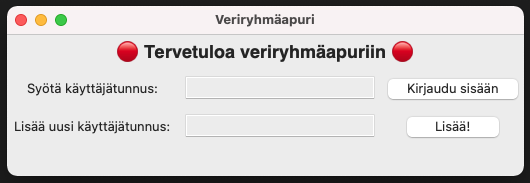
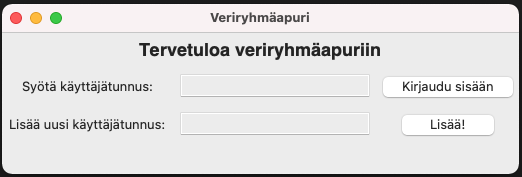
korjaukset

diff --git a/src/ui/login_view.py b/src/ui/login_view.py
@@ -1,5 +1,4 @@
 from tkinter import ttk, StringVar
-from emoji import emojize
 
 
 class LoginView:
@@ -35,8 +34,7 @@ class LoginView:
         self.__message.set("")
 
         welcome = ttk.Label(master=self.__window,
-                            text=(
-                                emojize(":red_circle: Tervetuloa veriryhmäapuriin :red_circle:")),
+                            text="Tervetuloa veriryhmäapuriin",
                             font="Helvetica 18 bold")
 
         give_username = ttk.Label(

diff --git a/src/ui/sample_view.py b/src/ui/sample_view.py
@@ -1,5 +1,4 @@
 from tkinter import ttk, StringVar
-from emoji import emojize
 from services.sample_handler import SampleHandler
 
 
@@ -50,8 +49,7 @@ class SampleView:
         self.__comment_box.set("")
 
         welcome = ttk.Label(
-            master=self.__window, text=(
-                emojize(":red_circle: Veriryhmäapuri :red_circle:")),
+            master=self.__window, text="Veriryhmäapuri",
             font="Helvetica 18 bold")
 
         give_sample_id = ttk.Label(
